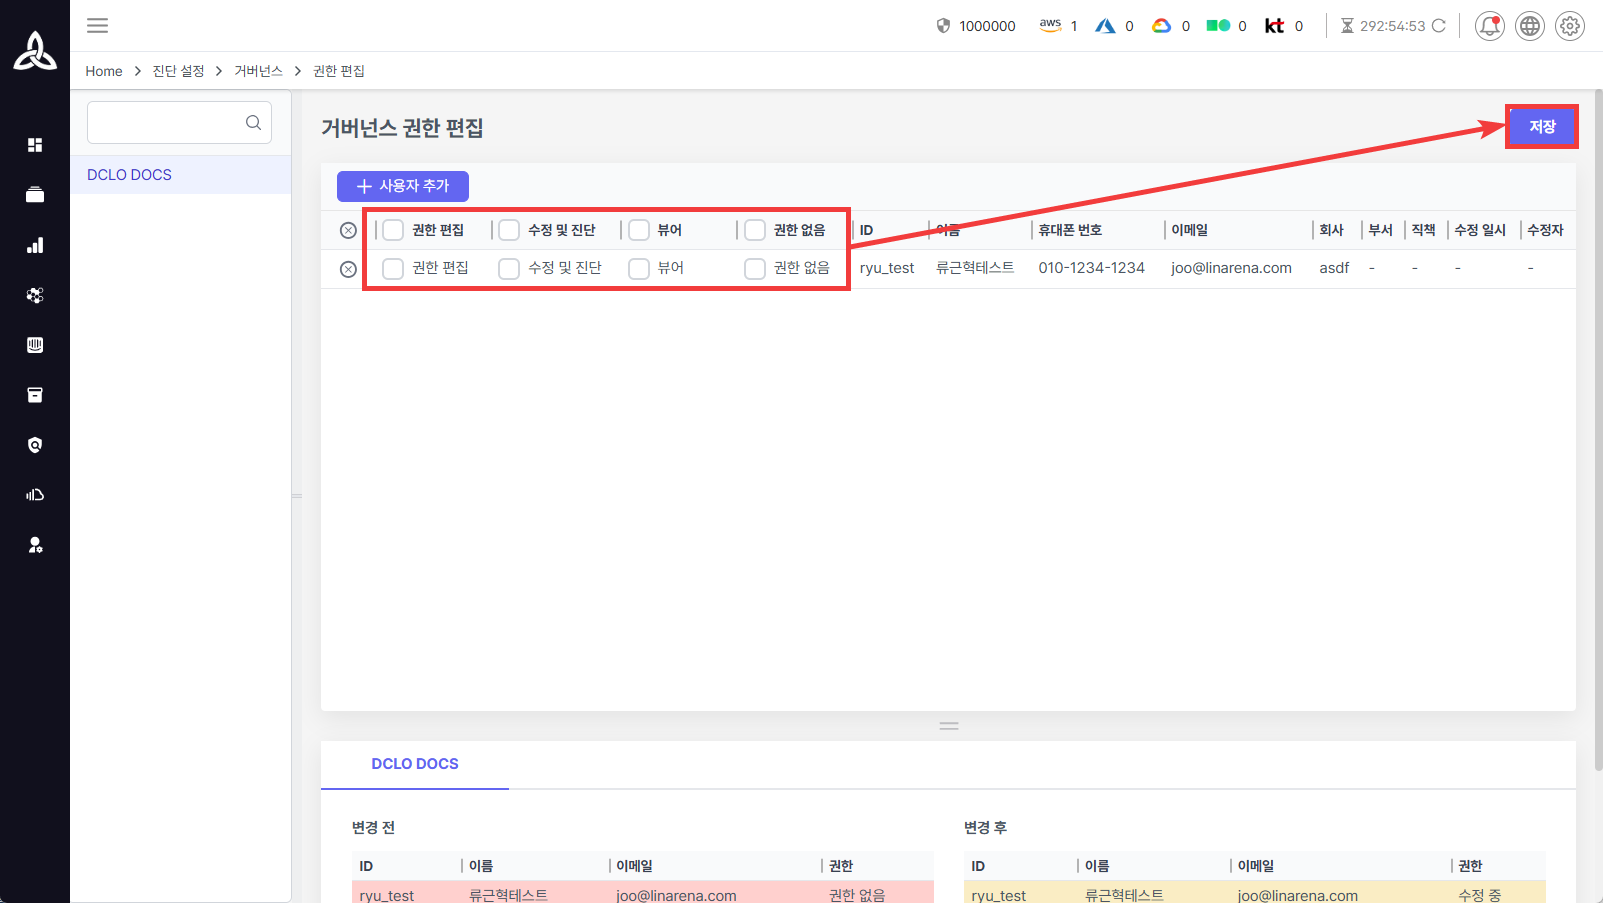
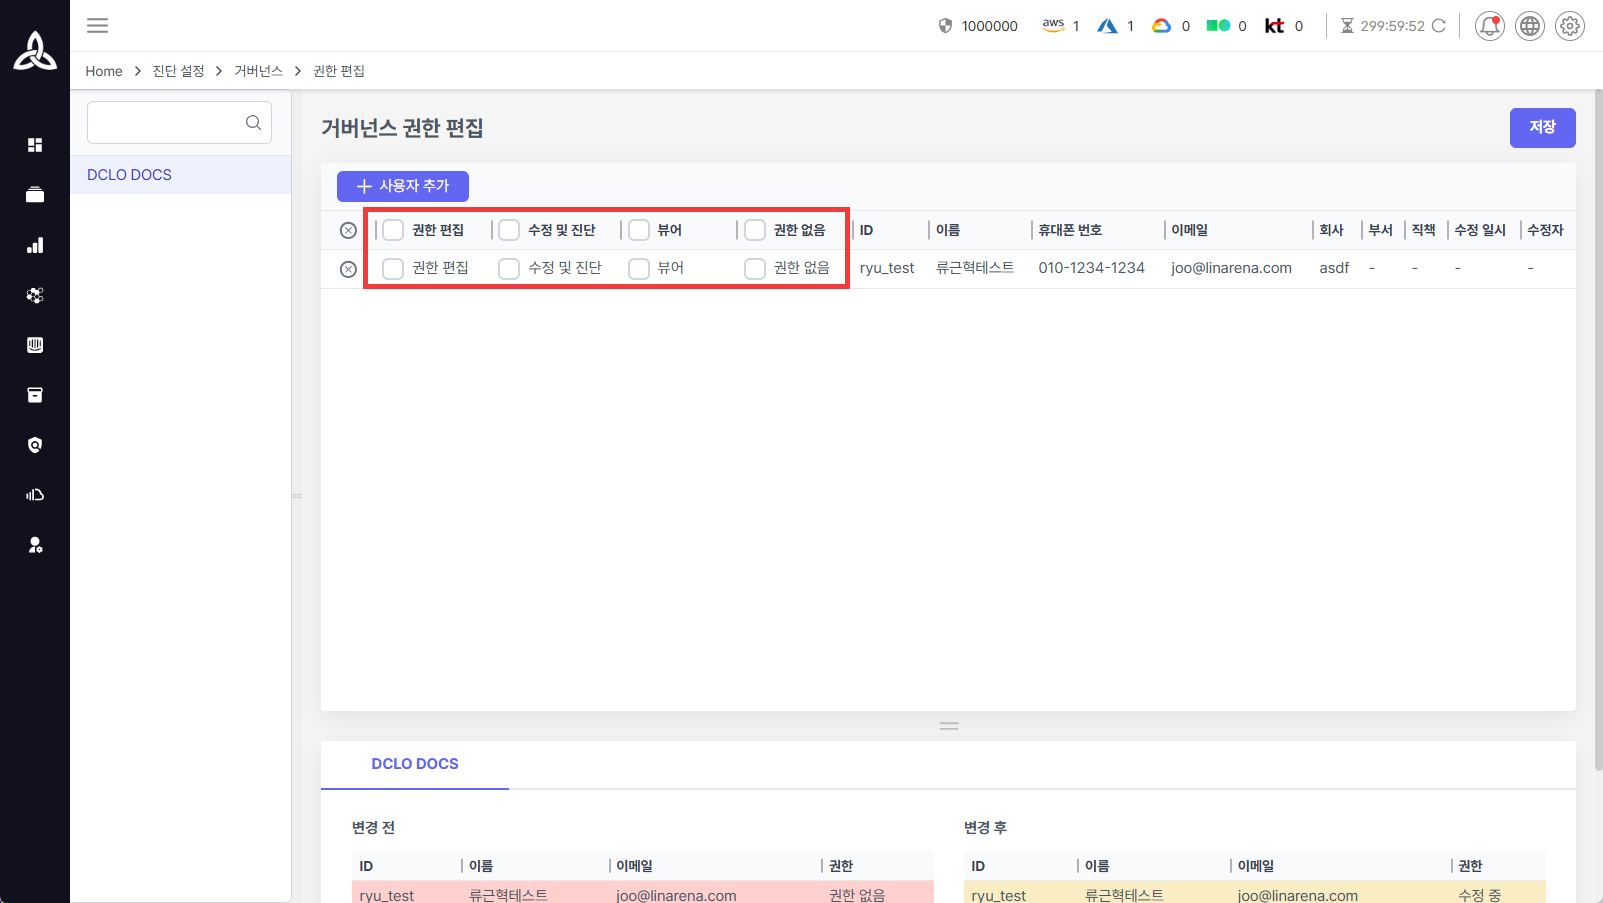
거버넌스,커스텀룰의 권한변경내역및저장사진추가

diff --git a/docs/docs/CSPM/진단 설정/거버넌스.md b/docs/docs/CSPM/진단 설정/거버넌스.md
@@ -107,7 +107,7 @@ nav_order: 7
 </center>
 
 **기본정보** 입력을 완료한 뒤  
-<img src="../../../../assets/images/button/커스텀룰_생성_next.png" alt="다음 단계 버튼" style="vertical-align:middle; width:45px; height:25px;"> 버튼을 클릭하면 **카테고라이즈(Categorize)** 단계로 이동합니다.
+<img src="../../../../assets/images/button/커스텀룰_생성_next.png" alt="다음 단계 버튼" style="vertical-align:middle; width:45px; height:25px;"> 버튼을 클릭하면 **카테고라이즈** 단계로 이동합니다.
 
 이 단계에서는 **카테고리(분류)를 입력하고, 룰을 추가**합니다.
 
@@ -115,9 +115,9 @@ nav_order: 7
 
 **예시 (계층 구조):**
 
-- 2. 보호대책 요구사항  
-  - 2.11. 사고 예방 및 대응  
-    - 2.11.2. 취약점 점검 및 조치
+- 2\. 보호대책 요구사항  
+  - 2\.11\. 사고 예방 및 대응  
+    - 2\.11\.2\. 취약점 점검 및 조치
 
 
 <br>
@@ -341,6 +341,33 @@ nav_order: 7
 </center>
 
 등록된 사용자에 대해 **권한 등급**을 변경할 수 있습니다.  
-변경할 권한을 선택한 뒤, <img src="../../../../assets/images/button/저장버튼.png" alt="저장 버튼" style="vertical-align:middle; width:45px; height:20px;">  버튼을 클릭하여 적용합니다. 
 
-화면 하단에는 **권한 변경 내역**이 표시되어 변경 이력을 한눈에 확인할 수 있습니다.
+
+<br>
+<center>
+    <img
+        src="../../../../assets/images/거버넌스/거버넌스_권한_권한변경내역.png"
+        width="1600"
+        height="900"
+        style="border: 2px solid black;"
+    />
+    <figcaption>거버넌스 권한 – ５ (권한 변경 내역 표시)</figcaption>
+</center>
+
+화면 하단에는 현재 수정 중인 **권한 변경 내역**이 표시되며, 변경된 이력을 한눈에 확인할 수 있습니다.
+
+<br>
+<center>
+    <img
+        src="../../../../assets/images/거버넌스/거버넌스_권한_저장.png"
+        width="1600"
+        height="900"
+        style="border: 2px solid black;"
+    />
+    <figcaption>거버넌스 권한 – 6 (권한 변경 저장)</figcaption>
+</center>
+
+변경할 권한을 선택한 뒤, <img src="../../../../assets/images/button/저장버튼.png" alt="저장 버튼" style="vertical-align:middle; width:45px; height:20px;">  버튼을 클릭합니다.  
+
+이후, **거버넌스에 속한 진단 대상 및 커스텀 룰에도 권한을 함께 부여할지**,  
+또는 **거버넌스에만 권한을 부여할지**를 선택한 후 적용합니다.

diff --git a/docs/docs/CSPM/진단 설정/커스텀룰.md b/docs/docs/CSPM/진단 설정/커스텀룰.md
@@ -345,6 +345,29 @@ nav_order: 6
 </center>
 
 등록된 사용자에 대해 **권한 등급**을 변경할 수 있습니다.  
-변경할 권한을 선택한 뒤, <img src="../../../../assets/images/button/저장버튼.png" alt="저장 버튼" style="vertical-align:middle; width:45px; height:20px;">  버튼을 클릭하여 적용합니다. 
 
-화면 하단에는 **권한 변경 내역**이 표시되어 변경 이력을 한눈에 확인할 수 있습니다.
+<br>
+<center>
+    <img
+        src="../../../../assets/images/커스텀룰/커스텀룰_권한_권한변경내역.png"
+        width="1600"
+        height="900"
+        style="border: 2px solid black;"
+    />
+    <figcaption>커스텀 룰 권한 – ５ (권한 변경 내역 표시)</figcaption>
+</center>
+
+화면 하단에는 현재 수정 중인 **권한 변경 내역**이 표시되며, 변경된 이력을 한눈에 확인할 수 있습니다.
+
+<br>
+<center>
+    <img
+        src="../../../../assets/images/커스텀룰/커스텀룰_권한_저장.png"
+        width="1600"
+        height="900"
+        style="border: 2px solid black;"
+    />
+    <figcaption>커스텀 룰 권한 – ６ (권한 변경 저장)</figcaption>
+</center>
+
+변경할 권한을 선택한 뒤, <img src="../../../../assets/images/button/저장버튼.png" alt="저장 버튼" style="vertical-align:middle; width:45px; height:20px;">  버튼을 클릭하여 적용합니다. 
